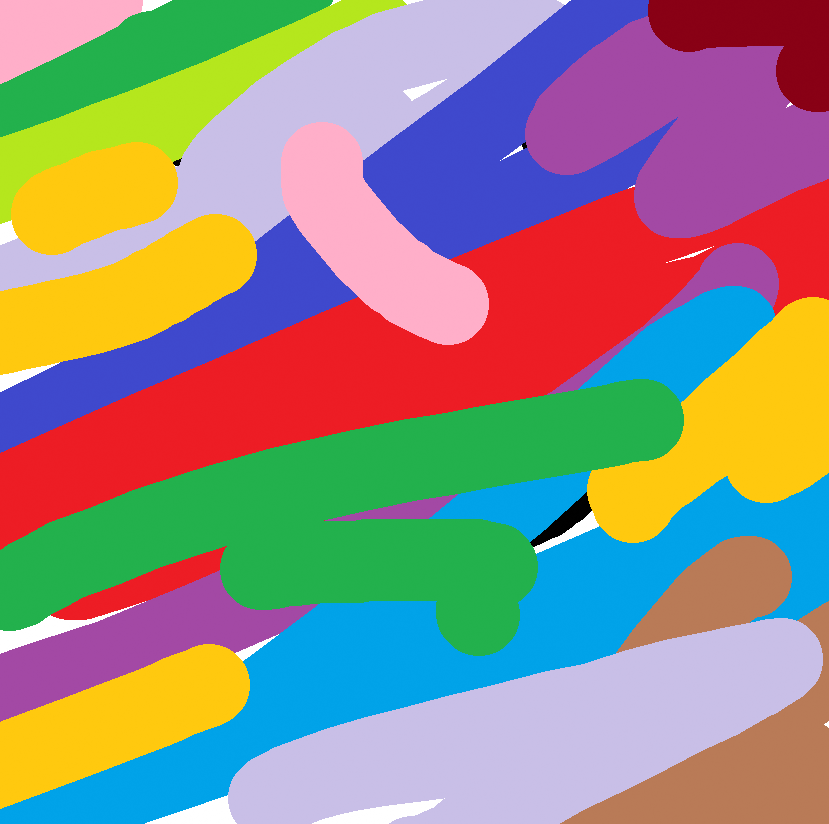
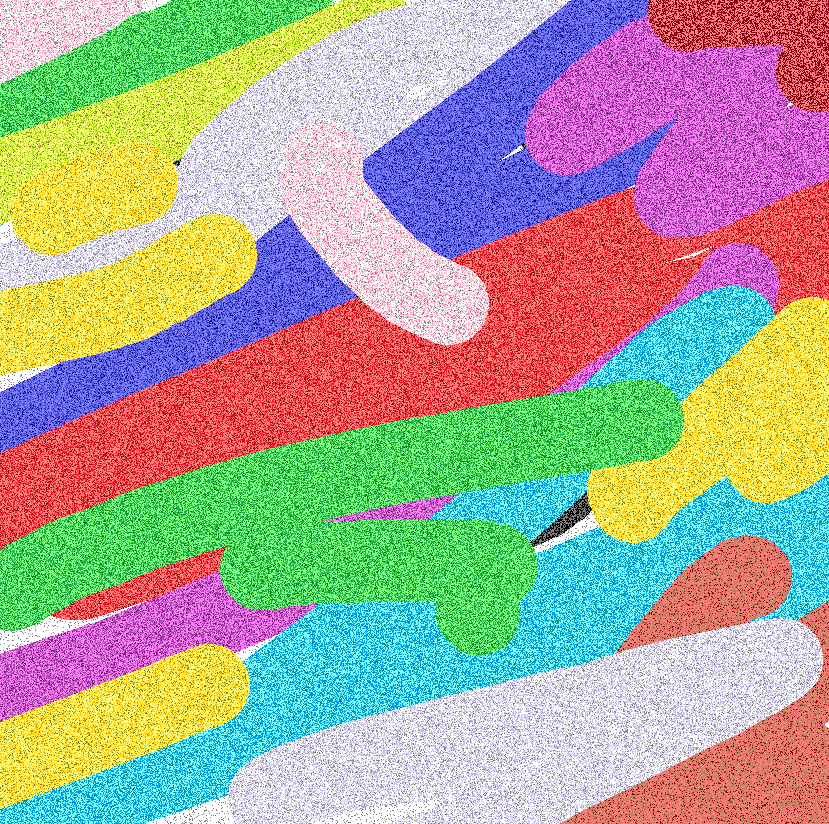
implemented encoding header

diff --git a/encode.js b/encode.js
@@ -6,63 +6,78 @@ export class StegoEncoder {
         this.cover_data;
         this.secret_data;
 
-        this.cover_width;
-        this.cover_height
-        this.secret_width;
-        this.secret_height
-
         this.password;
-        this.lsb_bits; 
+        this.lsb_bits = 7; 
 
         this.header_positions;
         this.data_positions;
     }
 
-    encode(image_data, password){
-        this.setPassword(password);
-
-        let generator = new GeneratePositions(this.cover_width, this.cover_height, this.password);
+    encode(password){
+        let generator = new GeneratePositions(this.cover_data.width, this.cover_data.height, password);
         this.positions = generator.getScrambledPositions();
 
         this.header_positions = this.positions.slice(0, 64);
         this.data_positions = this.positions.slice(64, this.positions.length);
 
-        let x = this.positions[0].x;
-        let y = this.positions[0].y;
 
-        let image = this.hideHeader(this.header_positions);
-        let image = this.hideData(this.data_positions);
+        let image = this.hideHeader(this.cover_data, this.cover_data.width, this.header_positions);
+        image = this.hideHeader(this.cover_data, this.cover_data.height, this.header_positions);
 
+        image = this.hideData(this.cover_data, this.secret_data, this.data_positions);
+        return image;
     }
 
-    hideHeader(header_positions){
-        let size = header_positions.length;
+    hideHeader(target, dimension, header_positions){
+        let size = header_positions.length / 2;
 
         for (let i = 0; i < size; i++){
-            pixel_channel = getPixel(header_positions[i].x, header_positions[i].y, this.cover_data, this.width);
+            let x = header_positions[i].x
+            let y = header_positions[i].y
+
+            let target_pixel = this.getPixel(x, y, target.data, target.width);
+
+            let shift = (size - 1 - i) * this.lsb_bits * 3;
+            
+            let r = (dimension >> (shift + this.lsb_bits * 2)) & ((1 << this.lsb_bits) - 1);
+            let g = (dimension >> (shift + this.lsb_bits)) & ((1 << this.lsb_bits) - 1);
+            let b = (dimension >> shift) & ((1 << this.lsb_bits) - 1);
+
+            let new_r = this.hideBits(target_pixel.r, r, this.lsb_bits);
+            let new_g = this.hideBits(target_pixel.g, g, this.lsb_bits);
+            let new_b = this.hideBits(target_pixel.b, b, this.lsb_bits);
+
+            let new_pixel = {r: new_r, g: new_g, b: new_b};
+
+            target.data = this.setPixel(x, y, target.data, new_pixel, target.width);
         }
     }
 
     hideData(target, source, data_positions){
-        let image_data;
+        let index = 0;
 
         for (let i = 0; i < target.height; i++){
             for (let j = 0; j < target.width; j++){
                 
                 if (i < source.height){
                     if (j < source.width){
-                        let x = data_positions[j].x
-                        let y = data_positions[j].y
+                        let x = data_positions[index].x
+                        let y = data_positions[index].y
 
-                        target_pixel = this.getPixel(x, y, target.data, target.width)
-                        source_pixel = this.getPixel(x, y, source.data, source.width)
+                        let target_pixel = this.getPixel(x, y, target.data, target.width);
+                        let source_pixel = this.getPixel(j, i, source.data, source.width);
 
-                        target_pixel.r = hidBits(target_pixel.r, source_pixel.r, this.lsb);
-                        target_pixel.g = hidBits(target_pixel.r, source_pixel.r, this.lsb);
-                        target_pixel.b = hidBits(target_pixel.r, source_pixel.r, this.lsb);
+                        let r = this.hideBits(target_pixel.r, source_pixel.r, this.lsb_bits);
+                        let g = this.hideBits(target_pixel.g, source_pixel.g, this.lsb_bits);
+                        let b = this.hideBits(target_pixel.b, source_pixel.b, this.lsb_bits);
 
-                        image = setPixel(x, y, target_pixel)
+                        let new_pixel = {r: r, g: g, b: b};
+                        target.data = this.setPixel(x, y, target.data, new_pixel, target.width);
+                        index++;
                     }
+                }
+                else {
+                    return target;
                 }
             }
         }
@@ -71,19 +86,24 @@ export class StegoEncoder {
     }
 
     hideBits(target, source, lsb){
+
         for (let i = 0; i < lsb; i++){
-            bit = (source >> i) & 1;
+            let bit = (source >> i) & 1;
 
             if (bit == 1){
+                //console.log("Was " + target.toString(2) + " replaced with 1");
                 target = target | (1 << i);
+                //console.log("Now " + target.toString(2));
             }
 
             else{
+                //console.log("Was " + target.toString(2) + " replaced with 0");
                 target = target & ~(1 << i);
+                //console.log("Now " + target.toString(2));
             }
         }
 
-        return target
+        return target;
     }
 
     getPixel(x, y, image_data, width){
@@ -96,26 +116,23 @@ export class StegoEncoder {
         }
     }
 
-    setPixel(x, y, target_data, source_data, width){
+    setPixel(x, y, target_data, pixel, width){
         const index = (y * width + x) * 4;
 
-        target_data[index].r = source_data[index].r
-        target_data[index + 1].g = source_data[index + 1].g
-        target_data[index + 2].b = source_data[index + 2].b
+        target_data[index] = pixel.r;
+        target_data[index + 1] = pixel.g;
+        target_data[index + 2] = pixel.b;
 
-        return target_data
+        return target_data;
     }
 
     setCoverImage(image_data){
-        this.cover_data = image_data.data;
-        this.cover_width = image_data.width;
-        this.cover_height = image_data.height;
+        this.cover_data = image_data;
     }
 
     setSecretImage(image_data){
-        this.secret_data = image_data.data;
-        this.secret_width = image_data.width;
-        this.secret_height = image_data.height;    
+        this.secret_data = image_data;
+ 
     }
 
     setPassword(password){

diff --git a/main.js b/main.js
@@ -32,17 +32,67 @@ document.getElementById('upload-cover').addEventListener('change', function(e) {
         width: canvas.width,
         height: canvas.height
       });
-
-      encoder.encode({
-        data: pixels,
-        width: canvas.width,
-        height: canvas.height
-      }, "1234");
     }
-
 
     img.src = URL.createObjectURL(file);
 
   };
 });
+
+
+document.getElementById('upload-secret').addEventListener('change', function(e) {
+  const file = e.target.files[0];
+    
+  if (file && file.type.startsWith('image/')) {
+    const img = new Image();
+
+    img.onload = function(){
+      const canvas = document.createElement("canvas");
+      const ctx = canvas.getContext("2d");
+
+      canvas.width = img.width;
+      canvas.height = img.height;
+      ctx.drawImage(img, 0, 0);
+
+      const imageData = ctx.getImageData(0, 0, canvas.width, canvas.height);
+      const pixels = imageData.data; // extract pixels
+
+      /*
+      for (let i = 0; i < pixels.length; i+= 4){
+        pixels[i] = (pixels[i] & 0xFE) | 1; // Red
+        pixels[i+1] = (pixels[i+1] & 0xFE) | 1; // Green
+        pixels[i+2] = (pixels[i+2] & 0xFE) | 1; // Blue
+      }
+      */
+
+      encoder.setSecretImage({
+        data: pixels,
+        width: canvas.width,
+        height: canvas.height
+      });
+    }
+
+    img.src = URL.createObjectURL(file);
+
+  };
+});
+
+document.getElementById("submit").onclick = () =>{
+  const image = encoder.encode("1234");
+
+  const canvas = document.getElementById("myCanvas");
+  canvas.width = image.width;
+  canvas.height = image.height;
+  
+  // Create ImageData object
+  const imageData = new ImageData(image.data, image.width, image.height);
+  
+  // Draw to canvas
+  const ctx = canvas.getContext("2d");
+  ctx.putImageData(imageData, 0, 0);
+
+}
+
+
+
 

diff --git a/index.html b/index.html
@@ -40,6 +40,8 @@
             <button>Encode</button>
         </div>
 
+        <canvas id="myCanvas"></canvas>
+
         <script type="module" src="main.js"></script>
         <script type="module" src="encode.js"></script>
         <script type="module" src="generatePositions.js"></script>